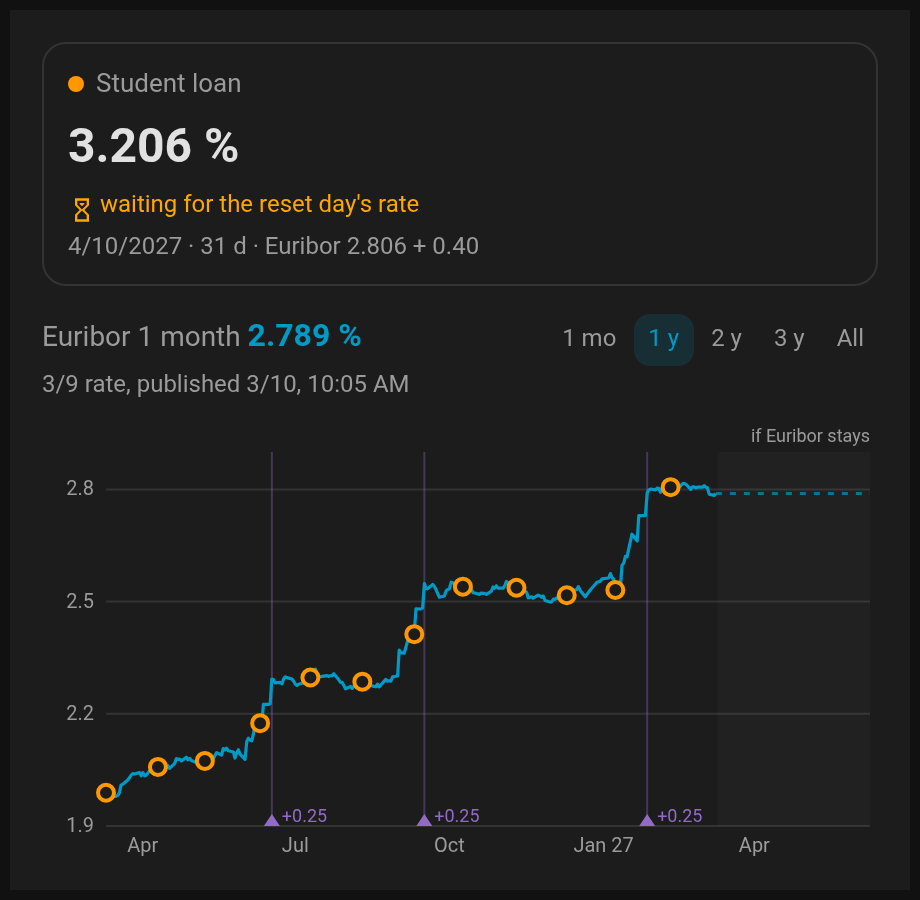
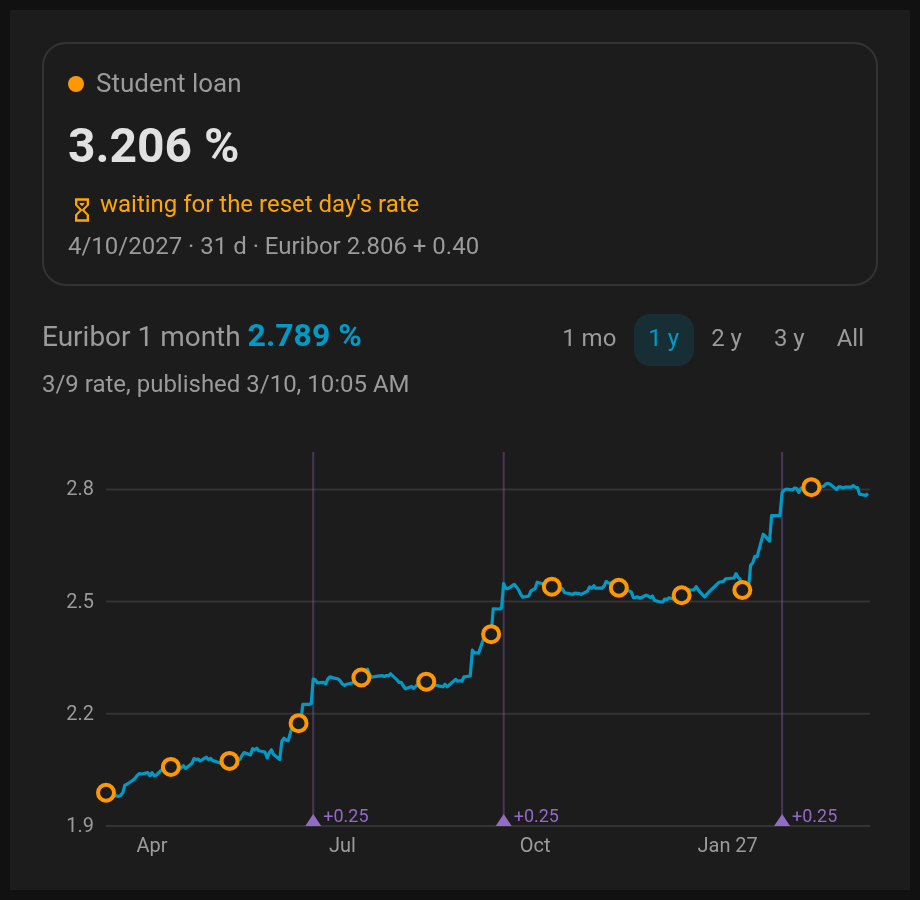
The card drops the projection, which only repeated the newest rate

diff --git a/custom_components/euribor_rates/www/euribor-card.js b/custom_components/euribor_rates/www/euribor-card.js
@@ -710,11 +710,9 @@ function steps(series) {
 
 // src/chart.ts
 var PAD = { left: 36, right: 8, top: 16, bottom: 16 };
-var FUTURE = 0.25;
 function scale(input) {
   const start = moment(input.start);
-  const now = moment(input.today);
-  const end = input.projection ? now + Math.round((now - start) * FUTURE / DAY) * DAY : now;
+  const end = moment(input.today);
   const values = input.rates.map((point) => point.value);
   if (input.ecbMode === "steps") {
     values.push(...input.ecb.map((point) => point.value));
@@ -774,8 +772,6 @@ function chart(input) {
   const digits = s4.step < 0.05 ? 2 : s4.step < 0.1 ? 2 : s4.step < 0.25 ? 1 : 2;
   const visible = input.rates.filter((point) => moment(point.day) >= s4.start);
   const line = visible.map((point, index) => `${index ? "L" : "M"}${s4.x(moment(point.day)).toFixed(1)},${s4.y(point.value).toFixed(1)}`).join(" ");
-  const now = moment(input.today);
-  const newest = input.rates.at(-1);
   return w`
         <svg viewBox="0 0 ${width} ${height}" width=${width} height=${height} role="img">
             ${ticks.map(
@@ -783,12 +779,9 @@ function chart(input) {
                           <text class="axis" x=${PAD.left - 6} y=${s4.y(value) + 3} text-anchor="end">${input.number(value, digits)}</text>`
   )}
             ${monthTicks(s4, width).map((day) => w`<text class="axis" x=${s4.x(moment(day))} y=${height - 3} text-anchor="middle">${input.month(day)}</text>`)}
-            ${input.projection ? w`<rect class="future" x=${s4.x(now)} y=${PAD.top} width=${Math.max(0, s4.x(s4.end) - s4.x(now))} height=${bottom - PAD.top}></rect>
-                      <text class="axis small" x=${s4.x(s4.end)} y=${PAD.top - 5} text-anchor="end">${input.projectionLabel}</text>` : null}
             ${ecb(input, s4, bottom)}
             ${input.loanMarks === "lines" ? lockLines(input, s4) : null}
             <path class="rate" d=${line}></path>
-            ${input.projection && newest ? w`<line class="rate projection" x1=${s4.x(moment(newest.day))} x2=${s4.x(s4.end)} y1=${s4.y(newest.value)} y2=${s4.y(newest.value)}></line>` : null}
             ${input.loanMarks === "markers" ? lockMarkers(input, s4) : null}
             ${hover(input, s4, bottom)}
         </svg>
@@ -983,7 +976,6 @@ var en_default = {
     stale: "Published {days} days ago",
     month: "1 mo",
     year: "1 y",
-    projection: "if Euribor stays",
     ecb_legend: "ECB deposit rate",
     ecb_short: "ECB",
     locked_legend: "locked Euribor",
@@ -1011,8 +1003,6 @@ var en_default = {
     entity: "Maturity",
     loans_on_chart: "Loans on the chart",
     loans_on_chart_helper: "The Euribor each reset locked, as a marker or as a line to the next reset.",
-    projection: "Projection",
-    projection_helper: "Today's Euribor drawn on into the future.",
     ecb: "ECB rate",
     ecb_helper: "Shown once the ECB's rate is added to the integration.",
     markers: "Markers",
@@ -1034,7 +1024,6 @@ var fi_default = {
     stale: "Julkaistu {days} pv sitten",
     month: "1 kk",
     year: "1 v",
-    projection: "jos euribor pysyy",
     ecb_legend: "EKP:n talletuskorko",
     ecb_short: "EKP",
     locked_legend: "lukittu euribor",
@@ -1062,8 +1051,6 @@ var fi_default = {
     entity: "Korkojakso",
     loans_on_chart: "Lainat kaaviossa",
     loans_on_chart_helper: "Euribor, jonka kukin tarkistus lukitsi, merkkin\xE4 tai viivana seuraavaan tarkistukseen.",
-    projection: "Ennuste",
-    projection_helper: "T\xE4m\xE4n p\xE4iv\xE4n euribor jatkettuna tulevaan.",
     ecb: "EKP:n korko",
     ecb_helper: "N\xE4kyy, kun EKP:n korko on lis\xE4tty integraatioon.",
     markers: "Merkit",
@@ -1101,7 +1088,6 @@ function browserLanguage() {
 // src/editor.ts
 var DEFAULTS = {
   loans_on_chart: "lines",
-  projection: true,
   ecb: "steps"
 };
 function schema(hass, text2) {
@@ -1118,7 +1104,6 @@ function schema(hass, text2) {
         ["none", "none"]
       ])
     },
-    { name: "projection", selector: { boolean: {} } },
     {
       name: "ecb",
       selector: select([
@@ -1382,12 +1367,10 @@ var EuriborCard = class extends i4 {
       ecbMode: this.ecbMode(),
       loans: chartLoans,
       loanMarks: loans2.length ? this.loanMarks() : "none",
-      projection: this.config?.projection !== false,
       hover: this.hover,
       number: (value, digits) => this.number(value, digits),
       month: (day) => this.monthLabel(day),
-      date: (day) => this.shortDate(day, true),
-      projectionLabel: this.text("card.projection")
+      date: (day) => this.shortDate(day, true)
     };
   }
   // The rate's own line needs no entry, as the title above it names it in the same colour.
@@ -1755,21 +1738,11 @@ EuriborCard.styles = i`
             fill: var(--secondary-text-color);
             font-size: 10px;
         }
-        .axis.small {
-            font-size: 9px;
-        }
-        .future {
-            fill: rgba(127, 127, 127, 0.06);
-        }
         .rate {
             fill: none;
             stroke: var(--euribor-card-rate);
             stroke-width: 1.6;
             stroke-linejoin: round;
-        }
-        .projection {
-            stroke-dasharray: 3 4;
-            opacity: 0.7;
         }
         .ecb-step {
             fill: none;

diff --git a/frontend/src/chart.ts b/frontend/src/chart.ts
@@ -25,19 +25,14 @@ export interface ChartInput {
     ecbMode: EcbMode;
     loans: ChartLoan[];
     loanMarks: LoanMarks;
-    projection: boolean;
     hover?: string;
     /** Number and date formats, in the viewer's language. */
     number: (value: number, digits: number) => string;
     month: (day: string) => string;
     date: (day: string) => string;
-    projectionLabel: string;
 }
 
 const PAD = { left: 36, right: 8, top: 16, bottom: 16 };
-// The future drawn for the projection, as a share of the range shown.
-const FUTURE = 0.25;
-
 export interface Scale {
     start: number;
     end: number;
@@ -52,8 +47,7 @@ export interface Scale {
 
 export function scale(input: ChartInput): Scale {
     const start = moment(input.start);
-    const now = moment(input.today);
-    const end = input.projection ? now + Math.round(((now - start) * FUTURE) / DAY) * DAY : now;
+    const end = moment(input.today);
     const values = input.rates.map((point) => point.value);
     if (input.ecbMode === "steps") {
         values.push(...input.ecb.map((point) => point.value));
@@ -118,8 +112,6 @@ export function chart(input: ChartInput): SVGTemplateResult {
     const line = visible
         .map((point, index) => `${index ? "L" : "M"}${s.x(moment(point.day)).toFixed(1)},${s.y(point.value).toFixed(1)}`)
         .join(" ");
-    const now = moment(input.today);
-    const newest = input.rates.at(-1);
 
     return svg`
         <svg viewBox="0 0 ${width} ${height}" width=${width} height=${height} role="img">
@@ -130,20 +122,9 @@ export function chart(input: ChartInput): SVGTemplateResult {
                           <text class="axis" x=${PAD.left - 6} y=${s.y(value) + 3} text-anchor="end">${input.number(value, digits)}</text>`,
             )}
             ${monthTicks(s, width).map((day) => svg`<text class="axis" x=${s.x(moment(day))} y=${height - 3} text-anchor="middle">${input.month(day)}</text>`)}
-            ${
-                input.projection
-                    ? svg`<rect class="future" x=${s.x(now)} y=${PAD.top} width=${Math.max(0, s.x(s.end) - s.x(now))} height=${bottom - PAD.top}></rect>
-                      <text class="axis small" x=${s.x(s.end)} y=${PAD.top - 5} text-anchor="end">${input.projectionLabel}</text>`
-                    : null
-            }
             ${ecb(input, s, bottom)}
             ${input.loanMarks === "lines" ? lockLines(input, s) : null}
             <path class="rate" d=${line}></path>
-            ${
-                input.projection && newest
-                    ? svg`<line class="rate projection" x1=${s.x(moment(newest.day))} x2=${s.x(s.end)} y1=${s.y(newest.value)} y2=${s.y(newest.value)}></line>`
-                    : null
-            }
             ${input.loanMarks === "markers" ? lockMarkers(input, s) : null}
             ${hover(input, s, bottom)}
         </svg>

diff --git a/frontend/src/euribor-card.ts b/frontend/src/euribor-card.ts
@@ -283,12 +283,10 @@ export class EuriborCard extends LitElement {
             ecbMode: this.ecbMode(),
             loans: chartLoans,
             loanMarks: loans.length ? this.loanMarks() : "none",
-            projection: this.config?.projection !== false,
             hover: this.hover,
             number: (value, digits) => this.number(value, digits),
             month: (day) => this.monthLabel(day),
             date: (day) => this.shortDate(day, true),
-            projectionLabel: this.text("card.projection"),
         };
     }
 
@@ -689,21 +687,11 @@ export class EuriborCard extends LitElement {
             fill: var(--secondary-text-color);
             font-size: 10px;
         }
-        .axis.small {
-            font-size: 9px;
-        }
-        .future {
-            fill: rgba(127, 127, 127, 0.06);
-        }
         .rate {
             fill: none;
             stroke: var(--euribor-card-rate);
             stroke-width: 1.6;
             stroke-linejoin: round;
-        }
-        .projection {
-            stroke-dasharray: 3 4;
-            opacity: 0.7;
         }
         .ecb-step {
             fill: none;

diff --git a/frontend/src/editor.ts b/frontend/src/editor.ts
@@ -1,4 +1,4 @@
-/** The card's visual editor: the maturity, how the loans and the ECB's rate show on the chart, and the projection. */
+/** The card's visual editor: the maturity, and how the loans and the ECB's rate show on the chart. */
 import { LitElement, html, nothing } from "lit";
 import type { TemplateResult } from "lit";
 import { property, state } from "lit/decorators.js";
@@ -14,7 +14,6 @@ interface SchemaEntry {
 
 const DEFAULTS: Record<string, unknown> = {
     loans_on_chart: "lines",
-    projection: true,
     ecb: "steps",
 };
 
@@ -32,7 +31,6 @@ function schema(hass: HomeAssistant, text: (key: string) => string) {
                 ["none", "none"],
             ]),
         },
-        { name: "projection", selector: { boolean: {} } },
         {
             name: "ecb",
             selector: select([

diff --git a/frontend/src/types.ts b/frontend/src/types.ts
@@ -6,8 +6,6 @@ export interface EuriborCardConfig extends LovelaceCardConfig {
     entity: string;
     /** How the loans' locked rates show on the chart. Lines unless set. */
     loans_on_chart?: LoanMarks;
-    /** Today's rate drawn on into the future. On unless false. */
-    projection?: boolean;
     /** How the ECB's deposit facility rate shows on the chart, when the integration follows it. Steps unless set. */
     ecb?: EcbMode;
 }

diff --git a/README.md b/README.md
@@ -186,13 +186,12 @@ sensor.
 The card has a visual editor. Add **Euribor** from the card picker and choose the maturity. The options can also be
 written by hand.
 
-| Name             | Type    | Description                                                                                                                                                      | Default  |
-| ---------------- | ------- | ---------------------------------------------------------------------------------------------------------------------------------------------------------------- | -------- |
-| `type`           | string  | `custom:euribor-card`                                                                                                                                            | required |
-| `entity`         | string  | A maturity's rate sensor, such as `sensor.euribor_12_months`                                                                                                     | required |
-| `loans_on_chart` | string  | The Euribor each of the loans' resets locked. `lines` draws it as a line to the next reset, `markers` as a circle on the day it was locked, `none` leaves it out | `lines`  |
-| `projection`     | boolean | Today's Euribor drawn on into the future, with the loans' lines up to their next resets                                                                          | `true`   |
-| `ecb`            | string  | The ECB's rate, once it is added to the integration. `steps` draws it as a step line, `markers` marks its changes on the axis, `none` leaves it out              | `steps`  |
+| Name             | Type   | Description                                                                                                                                                      | Default  |
+| ---------------- | ------ | ---------------------------------------------------------------------------------------------------------------------------------------------------------------- | -------- |
+| `type`           | string | `custom:euribor-card`                                                                                                                                            | required |
+| `entity`         | string | A maturity's rate sensor, such as `sensor.euribor_12_months`                                                                                                     | required |
+| `loans_on_chart` | string | The Euribor each of the loans' resets locked. `lines` draws it as a line to the next reset, `markers` as a circle on the day it was locked, `none` leaves it out | `lines`  |
+| `ecb`            | string | The ECB's rate, once it is added to the integration. `steps` draws it as a step line, `markers` marks its changes on the axis, `none` leaves it out              | `steps`  |
 
 ### What it shows
 
